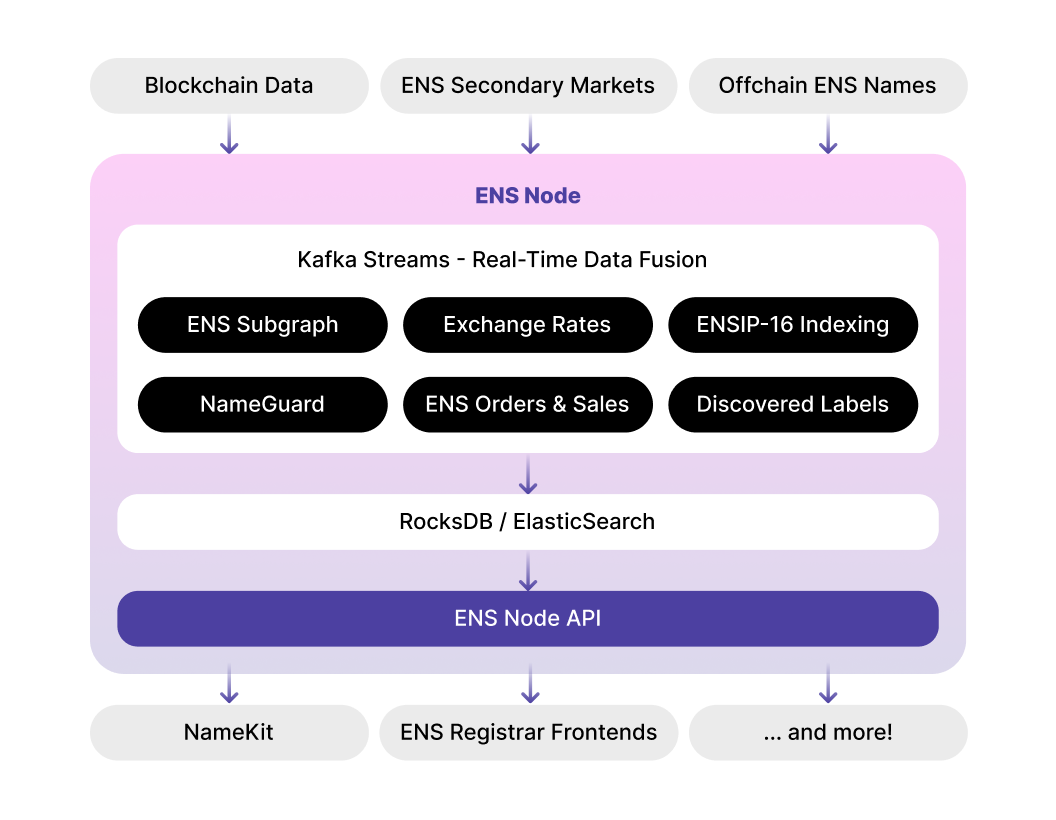
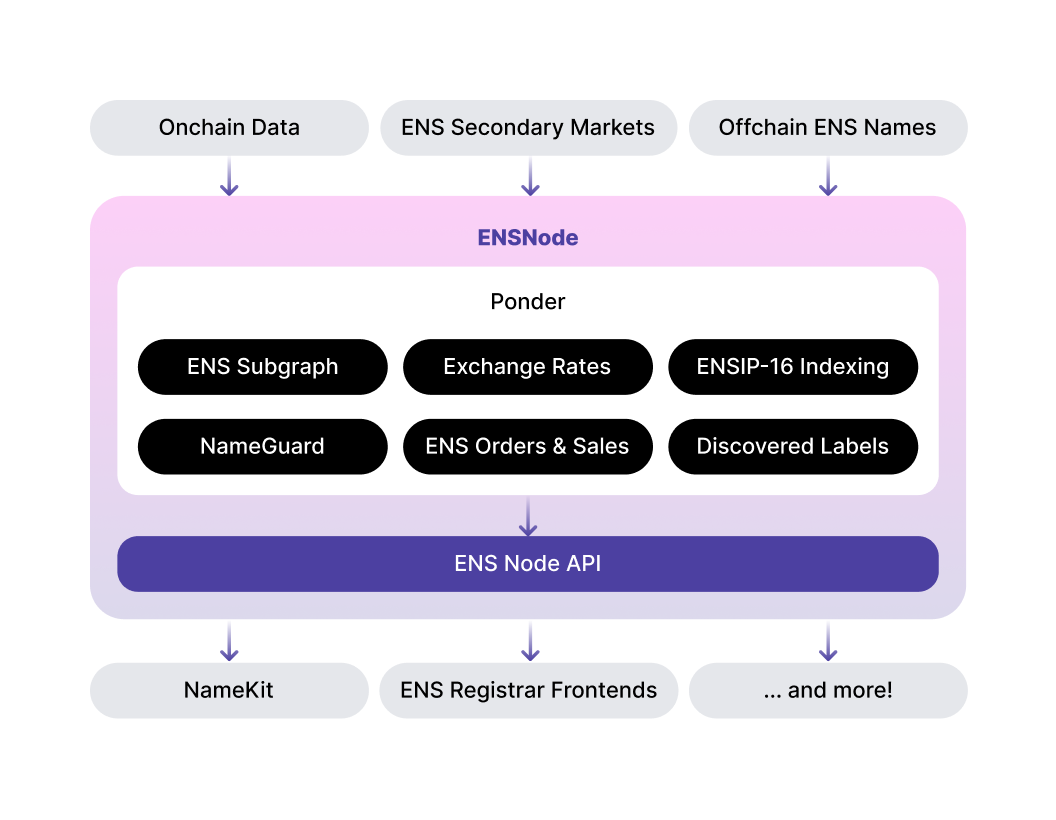
update NHL Landing page

diff --git a/apps/namehashlabs.org/components/2 - molecules/products-section.tsx b/apps/namehashlabs.org/components/2 - molecules/products-section.tsx
@@ -213,9 +213,9 @@ const products: ProductProps[] = [
   {
     title: "ENSNode",
     subtitle:
-      "Unlock new opportunities for ENS support in your web3 app with ENS Node, your gateway to a seamless fusion of richest on-chain and off-chain data from across the ENS ecosystem.",
+      "Unlock new opportunities for ENS support in your web3 app with ENSNode, your gateway to a seamless fusion of richest onchain and offchain data from across the ENS ecosystem.",
     label: {
-      title: "Developer API tooling",
+      title: "ENS Developer Tooling",
       icon: <ChartBarSquareIcon className="h-5 w-5 text-gray-500" />,
     },
     illustration: (
@@ -228,7 +228,8 @@ const products: ProductProps[] = [
         alt="hero"
       />
     ),
-    greenLabelText: "Coming soon",
+    buttonLabel: "Learn more",
+    buttonUrl: "https://ensnode.io",
     sectionId: "ens-node",
   },
 ];
